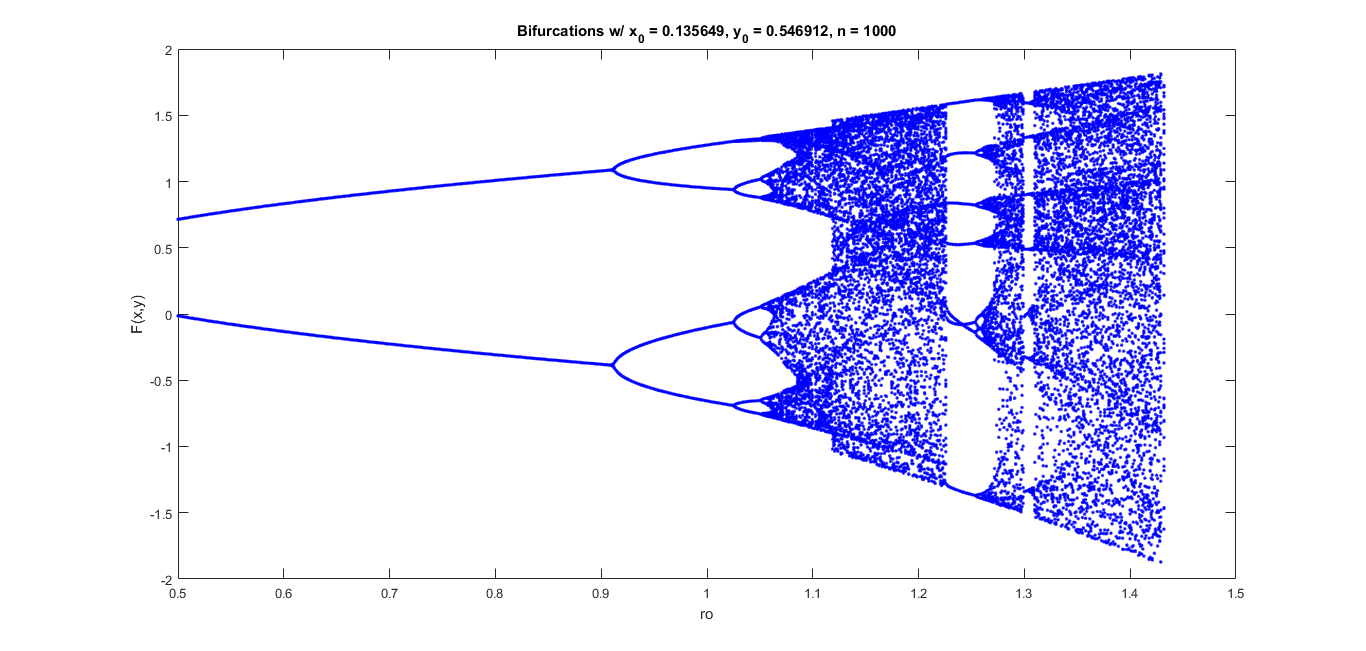
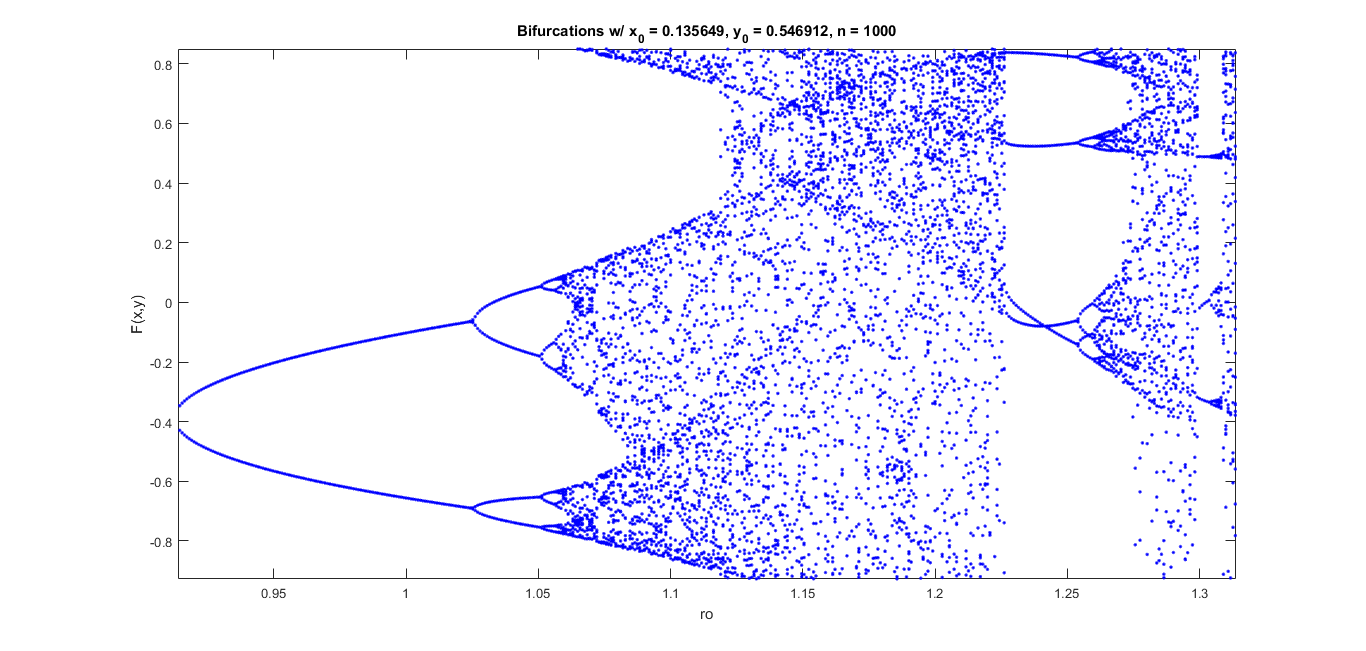
Bifurcations3d.m -for plotting the bifurcations of the 3 dimensional dynamic system
-minor text fixes for the other .m files

-different BifurcationPlotb.png to better show the interesting part

diff --git a/Bifurcations3d.m b/Bifurcations3d.m
@@ -1,0 +1,28 @@
+function Bifurcations3d
+    n = 6000; %number of steps                       
+    gammas = linspace(1.4,7.4,n);
+%     betas = linspace(2,0.2,n);
+    x0 = 0.5164;
+    y0 = 0.4568;
+    z0 = 0.8476;
+    dt = 0.01;
+    alpha = 0.2;
+    beta = 0.2;
+%     gamma = 5.7;
+    figure();
+    for i = 1:n
+        [x,y,z] = Dynamical_Flow([x0;y0;z0],alpha,beta,gammas(i),dt,n);
+        for k = 500:600%skip the transient values and plot the end points
+%             f = x(k);
+%             g = y(k);
+            h = z(k);
+            gamma = gammas(i);
+            plot(gamma,h, '.b');
+            hold on;
+        end
+    end
+    xlabel('beta');
+    ylabel('z');
+    title(['Bifurcations w/ x_0 = ' num2str(x0) ', y_0 = ' num2str(y0) ', z_0 = ' num2str(z0) ', n = ' num2str(n) ]);
+
+end

diff --git a/test_dynamical_flow.m b/test_dynamical_flow.m
@@ -13,17 +13,17 @@ x0 = 0.5164;
 y0 = 0.4568;
 z0 = 0.8476;
 
-% [x,y,z] = Dynamical_Flow([x0;y0;z0],alpha,beta,gamma,dt,t);
+[x,y,z] = Dynamical_Flow([x0;y0;z0],alpha,beta,gamma,dt,t);
 
 figure();
 % subplot(2,1,1);
-% plot3(x,y,z)
+plot3(x,y,z)
 % hold on;
 
 %%%%TESTING LYAPUNOV IN 3D%%%%%%%
 gammas = linspace(0.5,1.5,10000);
 lyapunov3d = lyapunov_exponent3d(9900,10000, alpha,beta,gammas, x0, y0, z0);
 % subplot(2,1,2);
-plot(gammas,lyapunov3d)
-hold on;
+% plot(gammas,lyapunov3d)
+% hold on;
 % plot3(gammas,zeros(t,1),zeros(t,1))
